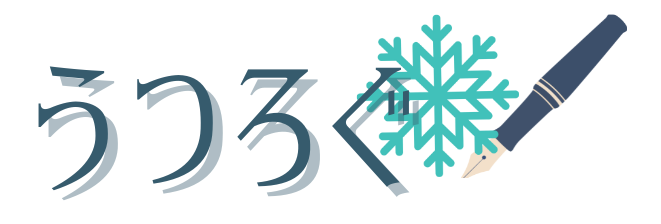
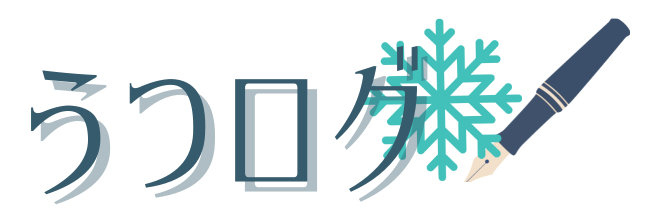
fix title

Changed region(s): [[0.0303, 0.0625, 0.9077, 0.9062], [0.8472, 0.0625, 0.9682, 0.2812]]

diff --git a/frontend/src/App.tsx b/frontend/src/App.tsx
@@ -90,7 +90,7 @@ function App() {
       setTotalResults(0);
       return;
     }
-    
+
     if (reset) {
       setSearchResults([]);
       setFrom(0);
@@ -172,16 +172,16 @@ function App() {
             </svg>
           </button>
         </div>
-        
+
         {/* Date Filter */}
         <div className="space-y-4">
           <h3 className="text-sm font-semibold text-slate-600 uppercase">コメント投稿日</h3>
           <div>
             <label htmlFor="date-from" className="block text-sm font-medium text-slate-700 mb-1">From</label>
-            <input 
-              type="date" 
-              id="date-from" 
-              name="date-from" 
+            <input
+              type="date"
+              id="date-from"
+              name="date-from"
               className="w-full px-3 py-2 border border-slate-300 rounded-md shadow-sm focus:outline-none focus:ring-2 focus:ring-blue-500 focus:border-blue-500 text-sm"
               value={dateFrom}
               onChange={(e) => setDateFrom(e.target.value)}
@@ -189,10 +189,10 @@ function App() {
           </div>
           <div>
             <label htmlFor="date-to" className="block text-sm font-medium text-slate-700 mb-1">To</label>
-            <input 
-              type="date" 
-              id="date-to" 
-              name="date-to" 
+            <input
+              type="date"
+              id="date-to"
+              name="date-to"
               className="w-full px-3 py-2 border border-slate-300 rounded-md shadow-sm focus:outline-none focus:ring-2 focus:ring-blue-500 focus:border-blue-500 text-sm"
               value={dateTo}
               onChange={(e) => setDateTo(e.target.value)}
@@ -204,11 +204,11 @@ function App() {
         <div className="mt-8">
           <h3 className="text-sm font-semibold text-slate-600 uppercase mb-4">投稿者名</h3>
           <div className="relative">
-            <input 
-              type="text" 
-              id="author-search" 
-              name="author-search" 
-              placeholder="投稿者名で検索..." 
+            <input
+              type="text"
+              id="author-search"
+              name="author-search"
+              placeholder="投稿者名で検索..."
               className="w-full pl-10 pr-4 py-2 border border-slate-300 rounded-md shadow-sm focus:outline-none focus:ring-2 focus:ring-blue-500 focus:border-blue-500 text-sm"
               value={authorName}
               onChange={(e) => setAuthorName(e.target.value)}
@@ -248,7 +248,7 @@ function App() {
 
       {/* Overlay */}
       {isSidebarOpen && (
-        <div 
+        <div
           className="fixed inset-0 bg-black bg-opacity-50 z-20 lg:hidden"
           onClick={() => setIsSidebarOpen(false)}
         ></div>
@@ -259,25 +259,24 @@ function App() {
         <div className="max-w-4xl mx-auto p-4 sm:p-6 lg:p-8">
           <header className="mb-8">
             <div className="flex items-center justify-between mb-2">
-              <img src="/title.png" alt="うつろぐ" className="block sm:h-[100px] w-auto h-[60px]" />
+              <img src="/title.png" alt="うつログ❄🖋" className="block sm:h-[100px] w-auto h-[60px]" />
               <button onClick={() => setIsSidebarOpen(true)} className="lg:hidden text-slate-600 hover:text-slate-800">
                 <svg className="w-6 h-6" xmlns="http://www.w3.org/2000/svg" fill="none" viewBox="0 0 24 24" stroke="currentColor">
                   <path strokeLinecap="round" strokeLinejoin="round" strokeWidth={2} d="M4 6h16M4 12h16M4 18h16" />
                 </svg>
               </button>
             </div>
-            <p className="text-slate-600 lg:pl-0">Utsuro CH. 氷室うつろのチャットログを検索できるよ。</p>
-
+            <p className="text-slate-600 lg:pl-0">Utsuro CH. 氷室うつろの配信チャットのログを検索できるよ。</p>
             {/* Search Box */}
             <div className="mt-6 relative">
-              <input 
-                type="text" 
+              <input
+                type="text"
                 placeholder="検索キーワードを入力（例: ミニうつろ）"
                 className="w-full pl-5 pr-12 py-3 border border-slate-300 rounded-full shadow-sm focus:outline-none focus:ring-2 focus:ring-blue-500 focus:border-blue-500 text-base"
                 value={searchQuery}
                 onChange={(e) => setSearchQuery(e.target.value)}
               />
-              <button 
+              <button
                 onClick={() => setEmojiPickerOpen(!emojiPickerOpen)}
                 className="absolute inset-y-0 right-0 flex items-center justify-center w-12 h-full text-slate-500 hover:text-blue-600 rounded-full focus:outline-none"
                 aria-label="絵文字ピッカーを開く"
@@ -287,7 +286,7 @@ function App() {
 
               {/* Emoji Picker */}
               {emojiPickerOpen && (
-                <div 
+                <div
                   className="absolute top-full right-0 mt-2 w-72 bg-white border border-slate-200 rounded-lg shadow-xl z-10 p-4"
                 >
                   <h4 className="text-sm font-semibold text-slate-700 mb-3">カスタム絵文字</h4>
@@ -313,8 +312,8 @@ function App() {
             {/* Exact Match Toggle */}
             <div className="flex justify-end mt-2 mr-4">
               <label className="flex items-center space-x-2 cursor-pointer">
-                <input 
-                  type="checkbox" 
+                <input
+                  type="checkbox"
                   className="rounded border-slate-300 text-blue-600 focus:ring-blue-500"
                   checked={isExactMatch}
                   onChange={(e) => setIsExactMatch(e.target.checked)}

diff --git a/frontend/index.html b/frontend/index.html
@@ -1,17 +1,22 @@
 <!doctype html>
 <html lang="ja">
-  <head>
-    <meta charset="UTF-8" />
-    <link rel="icon" type="image/svg+xml" href="/snowflake.svg" />
-    <meta name="viewport" content="width=device-width, initial-scale=1.0" />
-    <title>うつろぐ🖋</title>
-    <!-- Interフォントの読み込み -->
-    <link rel="preconnect" href="https://fonts.googleapis.com">
-    <link rel="preconnect" href="https://fonts.gstatic.com" crossorigin>
-    <link href="https://fonts.googleapis.com/css2?family=Inter:wght@400;500;600;700&family=Noto+Sans+JP:wght@400;500;700&display=swap" rel="stylesheet">
-  </head>
-  <body>
-    <div id="root"></div>
-    <script type="module" src="/src/main.tsx"></script>
-  </body>
+
+<head>
+  <meta charset="UTF-8" />
+  <link rel="icon" type="image/svg+xml" href="/snowflake.svg" />
+  <meta name="viewport" content="width=device-width, initial-scale=1.0" />
+  <title>うつログ🖋</title>
+  <!-- Interフォントの読み込み -->
+  <link rel="preconnect" href="https://fonts.googleapis.com">
+  <link rel="preconnect" href="https://fonts.gstatic.com" crossorigin>
+  <link
+    href="https://fonts.googleapis.com/css2?family=Inter:wght@400;500;600;700&family=Noto+Sans+JP:wght@400;500;700&display=swap"
+    rel="stylesheet">
+</head>
+
+<body>
+  <div id="root"></div>
+  <script type="module" src="/src/main.tsx"></script>
+</body>
+
 </html>
